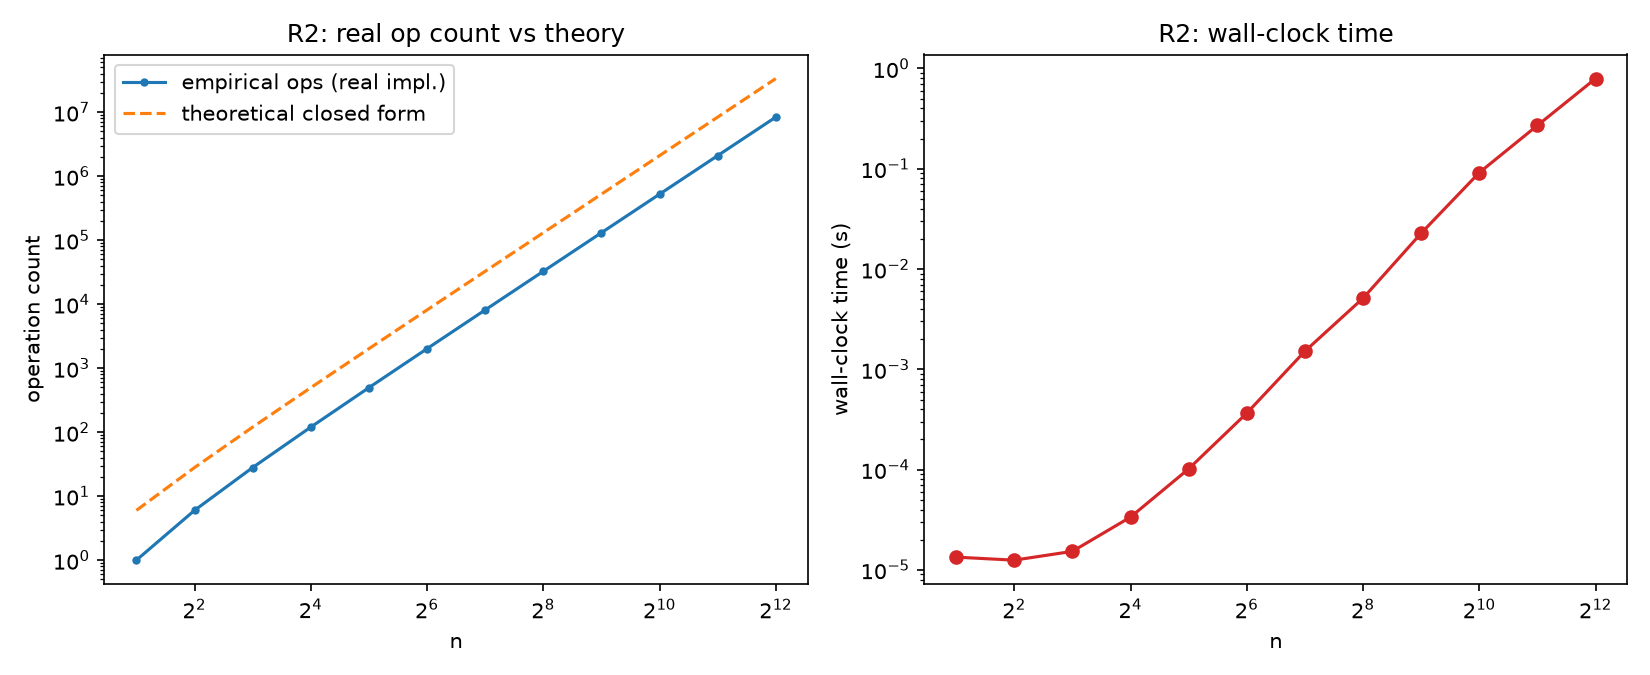
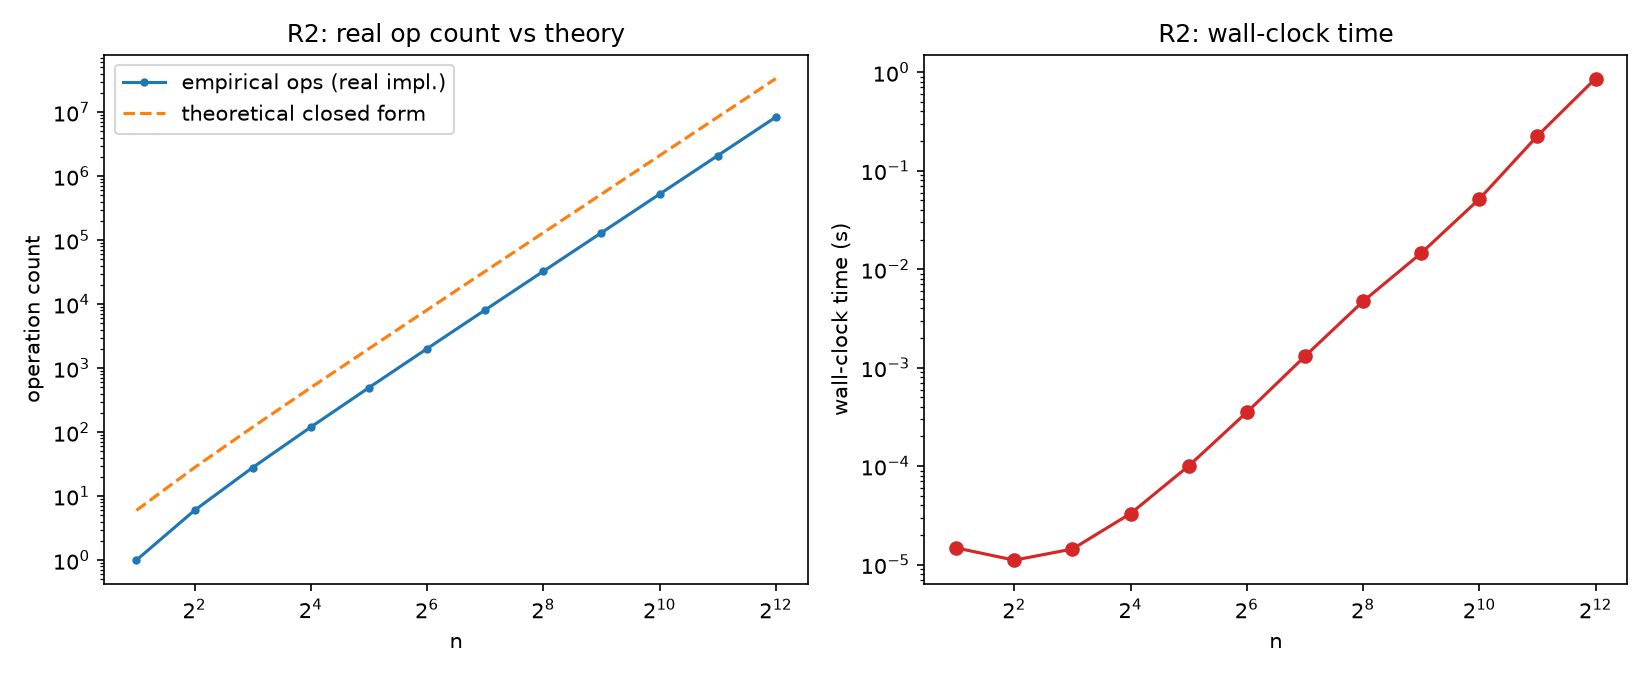
Add initial implementation of Lab 1 with task simulations and real algorithms
- Added README.md to describe the lab structure and execution.
- Implemented run_all.py to sequentially execute task simulations and real algorithms.
- Introduced task2_task3.py for abstract simulation of recurrences.
- Created task4.py for real implementations of algorithms.
- Generated output files including CSVs and PNGs for analysis.
- Added binary files for task4.py compiled output and updated result files.

diff --git a/lab1/run_all.py b/lab1/run_all.py
@@ -1,0 +1,9 @@
+
+import task2_task3
+import task4
+
+if __name__ == "__main__":
+    print("=== task2_task3.py (abstract simulation) ===")
+    task2_task3.run()
+    print("\n=== task4.py (real implementations) ===")
+    task4.run()

diff --git a/R236699C LAB 1.md b/R236699C LAB 1.md
@@ -1,14 +1,47 @@
+<style>
+  body { font-size: 12pt; line-height: 1.3; max-width: 7.4in; margin: 0 auto; }
+  p { margin: 0.5em 0; }
+  img { max-width: 3.9in; height: auto; display: block; margin: 0.25em auto; }
+  @page { margin: 0.55in; }
+  table { font-size: 10.5pt; }
+  h1, h2, h3 { margin-top: 0.7em; margin-bottom: 0.35em; }
+</style>
+
+<div style="text-align:center; margin-bottom: 2em;">
+
+![](assets/uz_logo.png){width=2.2in}
+
+**FACULTY OF COMPUTER ENGINEERING, INFORMATICS AND COMMUNICATIONS**
+
+**DEPARTMENT OF COMPUTER SCIENCE**
+
+**PROGRAM: HCS**
+
+**MODULE: DESIGN AND ANALYSIS OF ALGORITHMS**
+
+**NAME OF STUDENT: NIGEL TAVAGUTA**
+
+**REG NO.: R236699C**
+
+**SUPERVISOR: Ms MHLANGA**
+
+**LAB 1**
+
+</div>
+
+<div style="page-break-after: always;"></div>
+
 # Lab 1: Empirical Validation of the Master Theorem and Recurrence Solving
 
 ## Abstract
 
-This report solves four divide-and-conquer recurrences analytically (Master Theorem where applicable, recursion-tree/substitution otherwise), proves each closed form by induction, and then tests those closed forms against two kinds of empirical measurement: an abstract recursive simulator that counts operations purely from the recurrence's own formula, and real algorithm implementations (merge sort, a deliberately brute-force combine step, pre-Karatsuba multiplication, and a recursive binary search) with no memoization. The abstract simulation matches theory exactly everywhere, by construction, so it serves mainly as a correctness check on the proofs; the real implementations deviate from theory in three distinct, explainable ways — a shrinking lower-order term (merge sort), a flat constant-factor offset caused by a mismatch between the recurrence's $f(n)$ and what the real combine step actually costs (the two $\Theta(n^2)$ recurrences), and, in one case, a genuine implementation bug that at first looked like a legitimate deviation finding and had to be distinguished from one. Repeated wall-clock trials show operation counts are perfectly reproducible while timing is not, which motivates the final synthesis: a modified recurrence combining an uneven 1:3 split with a cache-miss penalty, solved rigorously via a sandwich argument to be $\Theta(n\log n)$ regardless of where the cache threshold falls, with the practical constant left as an approximation.
+This report solves four divide-and-conquer recurrences using the Master Theorem, the recursion-tree method, and substitution, and proves each result by induction. It then tests these results two ways: an abstract simulator that counts operations directly from each recurrence's own formula, and real implementations (merge sort, a brute-force combine step, pre-Karatsuba multiplication, and a recursive binary search), each with no memoization. The abstract simulator always matches theory exactly, so it mainly checks that the proofs and the simulation agree. The real implementations deviate from theory for three reasons: a lower-order term that matters less as $n$ grows, a constant-factor mismatch between a recurrence's $f(n)$ and what its combine step actually costs, and, in one case, a bug rather than a real effect. Repeated timing runs also show that operation counts are reproducible but wall-clock time is not. These findings lead to a final recurrence that combines an uneven split with a cache-miss penalty, which is proved to be $\Theta(n\log n)$ regardless of where the cache boundary falls.
 
 ## Task 1: Analytical Solutions
 
 ## 1. Introduction and Objectives
 
-Asymptotic analysis provides the mathematical foundation for evaluating algorithm efficiency. However, theoretical bounds often rely on simplifying assumptions, such as assuming unit-cost operations and ignoring hardware context. The objectives of this lab are:
+Asymptotic analysis is the standard way to evaluate algorithm efficiency, but it relies on simplifying assumptions such as unit-cost operations and no hardware context. The objectives of this lab are:
 
 1. Derive closed-form solutions and asymptotic bounds for four target divide-and-conquer recurrences.
 2. Formally prove all derived bounds using mathematical induction.
@@ -180,9 +213,9 @@ This agrees with the extended Case 2 from Section 2: here $n^{\log_2 1} = 1$ and
 
 Two separate programs were used, because they answer two different questions.
 
-**`task2_task3.py`** simulates each recurrence directly: a recursive function that makes $a$ calls on $n/b$ and adds $f(n)$ at the current level, with $T(1)=1$. Since $n$ only ever takes power-of-two values in this experiment, every call eventually resolves to one of about 20 distinct subproblem sizes, so the function is memoized by $n$. Without this, Recurrence 3 ($a=4$) would need $4^{20}$ leaf calls at $n = 2^{20}$, which is not feasible. Because this simulation counts operations purely through the recurrence's own formula, its empirical count matches the theoretical closed form from Task 1 *exactly*, for every $n$ from $2^1$ to $2^{20}$ — this is expected and is really a correctness check on both the simulator and the Task 1 derivations, not a measurement of anything real.
+**`task2_task3.py`** simulates each recurrence directly: a recursive function that makes $a$ calls on $n/b$ and adds $f(n)$ at the current level, with $T(1)=1$. Since $n$ only takes power-of-two values here, every call reaches one of about 20 distinct sizes, so the function is memoized by $n$. Without this, Recurrence 3 ($a=4$) would need $4^{20}$ leaf calls at $n=2^{20}$, which is not feasible. Because this program counts operations directly from each recurrence's formula, its output matches the Task 1 closed forms exactly for every $n$ from $2^1$ to $2^{20}$. This confirms the simulator and the proofs agree; it is not a measurement of anything real.
 
-**`task4.py`** instruments actual algorithms whose recursive structure matches each recurrence, with no memoization:
+**`task4.py`** runs real algorithms with the same recursive structure as each recurrence, with no memoization:
 
 | Recurrence | Real implementation |
 |---|---|
@@ -191,60 +224,60 @@ Two separate programs were used, because they answer two different questions.
 | $T(n)=4T(n/2)+n$ | Pre-Karatsuba recursive multiplication: split two $n$-bit integers into high/low halves, 4 recursive half-size multiplications, $O(n)$ shift-and-add combine |
 | $T(n)=T(n/2)+\log n$ | Recursive binary search over the first $n$ elements of a side array, then recurse with $n$ halved |
 
-Because Recurrences 2 and 3 perform genuine polynomial-scale work rather than abstract counting, they cannot be run out to $n=2^{20}$ in Python in reasonable time; their ranges are capped at $n=2^{12}$ (R2) and 1024-bit operands (R3). This cap is itself a small data point for Task 4: it shows the practical cost of an $O(n^2)$ algorithm in a way a Big-O bound alone does not.
+Recurrences 2 and 3 do real polynomial-scale work, so they cannot reach $n=2^{20}$ in Python in reasonable time. Their ranges are capped at $n=2^{12}$ (R2) and 1024-bit operands (R3). This cap is itself useful: it shows the real cost of an $O(n^2)$ algorithm in a way a Big-O bound alone does not.
 
-An earlier version of the R4 implementation always binary-searched the *full* side array regardless of the current recursion level, which silently simulates $T(n)=T(n/2)+\log N$ for a fixed $N$ rather than the intended $T(n)=T(n/2)+\log n$ — the bound passed to the binary search has to shrink along with $n$. That version also rebuilt the main array at every level via slicing (`arr[:n//2]`), which copies $O(n)$ elements per level and makes the wall-clock time measure array-copying cost rather than search cost. Both are fixed in the version described above (the bound passed to the search shrinks with $n$, and no array is copied at all — only an index is halved).
+An earlier version of R4 always searched the *full* side array, not just the first $n$ elements, so it actually simulated $T(n)=T(n/2)+\log N$ for a fixed $N$. It also rebuilt the main array at every level by slicing (`arr[:n//2]`), which copies $O(n)$ elements per level, so its timing measured copying cost rather than search cost. Both are fixed: the search bound now shrinks with $n$, and no array is copied at all.
 
 ### Results
 
-Plots are generated in `output/`: `recurrence_{1..4}.png` (abstract simulation vs. theory — these overlap exactly, by construction), `g_ratio_{1..4}.png` (empirical count divided by the *leading term only*, $g(n)$, with lower-order parts dropped), and `real_r{1..4}.png` (real implementation vs. theory, plus wall-clock time). The raw numbers are in `recurrence_counts.csv` and `real_implementations.csv`.
+Plots are in `output/`: `recurrence_{1..4}.png` (simulator vs. theory, which overlap exactly by construction), `g_ratio_{1..4}.png` (empirical count divided by the *leading term only*, $g(n)$), and `real_r{1..4}.png` (real implementation vs. theory, plus timing). Raw numbers are in `recurrence_counts.csv` and `real_implementations.csv`.
 
-The $g(n)$-ratio plots are the ones that actually carry information (the exact-theory ratio is trivially $1.0$ everywhere by construction, see Methodology above):
+The $g(n)$-ratio plots carry the real information, since the exact-theory ratio is always $1.0$ by construction:
 
 ![Recurrence 1: empirical count over leading term n log n](lab1/output/g_ratio_1.png)
 ![Recurrence 2: empirical count over leading term n^2](lab1/output/g_ratio_2.png)
 ![Recurrence 3: empirical count over leading term n^2](lab1/output/g_ratio_3.png)
 ![Recurrence 4: empirical count over leading term log^2 n](lab1/output/g_ratio_4.png)
 
-In each case $T(n)/g(n)$ converges to a constant rather than staying at an arbitrary value or drifting — this is the concrete content of the $\Theta(g(n))$ claim. Exact values at three representative points (computed directly from the Task 1 closed forms, since the abstract simulation matches them exactly):
+In each case $T(n)/g(n)$ settles to a constant instead of drifting - this is the concrete content of the $\Theta(g(n))$ claim. Exact values at three points (from the Task 1 closed forms):
 
 | $n$ | R1: $T/n\log n$ | R2, R3: $T/n^2$ | R4: $T/\log^2 n$ |
 |---|---|---|---|
 | $4$ | $1.500$ | $1.750$ | $1.000$ |
-| $2^{10}=1024$ | $1.100$ | $1.998$ | $0.560$ |
+| $2^{10}=1024$ | $1.100$ | $1.999$ | $0.560$ |
 | $2^{20}$ | $1.050$ | $2.000$ | $0.528$ |
 
-R1 converges to $1$, R2 and R3 converge to $2$, and R4 converges to $1/2$ — each limit is exactly what algebraic simplification of the closed form predicts as $n\to\infty$ (e.g. for R1, $\frac{nk+n}{nk}=1+\frac1k\to1$; for R2/R3, $\frac{2n^2-n}{n^2}=2-\frac1n\to2$; for R4, $\frac{1+k(k+1)/2}{k^2}\to\frac12$).
+R1 converges to $1$, R2 and R3 converge to $2$, and R4 converges to $1/2$, matching what each closed form's algebra predicts as $n\to\infty$ (e.g. for R1, $\frac{nk+n}{nk}=1+\frac1k\to1$; for R2/R3, $\frac{2n^2-n}{n^2}=2-\frac1n\to2$; for R4, $\frac{1+k(k+1)/2}{k^2}\to\frac12$).
 
 ---
 
 ## Task 4: Critical Analysis
 
-The abstract simulation matches theory exactly for every recurrence and every $n$, because it was built to compute the recurrence's own formula — there is no mechanism by which it *could* deviate. Genuine deviation only appears once a real algorithm is run on real data, which is exactly what `task4.py` is for. Four distinct deviation patterns showed up:
+The simulator matches theory exactly for every recurrence, since it computes each formula directly - there is no way for it to deviate. Real deviation only shows up once a real algorithm runs on real data, which is what `task4.py` is for. Four patterns showed up.
 
-**1. Lower-order terms dominate at small $n$ (Recurrence 1).** Merge sort's leaves cost nothing (the recursion bottoms out and returns immediately — no comparison is made), whereas the recurrence's own base case charges $T(1)=1$. That single difference is exactly the gap: writing $k=\log_2 n$, the empirical count works out to exactly $n\cdot k$, compared to the theoretical $n\cdot k+n$, so the ratio is exactly
+**1. Lower-order terms matter less as $n$ grows (Recurrence 1).** Merge sort's base case costs nothing, but the recurrence charges $T(1)=1$. Writing $k=\log_2 n$, the empirical count is exactly $n\cdot k$, against the theoretical $n\cdot k+n$, so the ratio is exactly
 
 $$\frac{nk}{nk+n} = \frac{k}{k+1},$$
 
-which is $1/2$ at $n=2$ ($k=1$) and climbs to $20/21\approx0.952$ at $n=2^{20}$ ($k=20$) — matching the measured values precisely. This is the "lower-order terms" source of deviation named in the brief in its cleanest possible form: the asymptotic bound ($\Theta(n\log n)$) is correct, the gap comes from a single additive term whose relative weight shrinks as $n$ grows, and the exact rate at which it shrinks can itself be written down in closed form.
+which is $1/2$ at $n=2$ and rises to $20/21\approx0.952$ at $n=2^{20}$, matching the measured values. The asymptotic bound ($\Theta(n\log n)$) is correct; the gap is a single additive term that matters less as $n$ grows.
 
-**2. Constant-factor mismatch between the recurrence's $f(n)$ and the real combine cost (Recurrences 2 and 3).** For Recurrence 2, the brute-force combine step compares every element of the left half ($n/2$ elements) against every element of the right half ($n/2$ elements), which costs exactly $(n/2)^2 = n^2/4$ comparisons — not $n^2$. Carried through the recursion, the empirical/theory ratio converges to a flat $0.25$ rather than $1.0$: both are $\Theta(n^2)$, so the asymptotic *order* is unaffected, but the recurrence's abstract $f(n)=n^2$ overstated the real constant by exactly 4×. The same story applies to Recurrence 3: the real shift-and-add combine touches `half` $= n/2$ bits, not $n$, and the ratio converges to $0.75$. This is the clearest illustration that "$\Theta(n^2)$" is a claim about growth rate, not about the actual number painted on a stopwatch — two implementations can both be $\Theta(n^2)$ and differ by a constant factor that matters enormously in practice.
+**2. Constant-factor mismatch (Recurrences 2 and 3).** Recurrence 2's brute-force combine compares every left-half element ($n/2$ of them) against every right-half element ($n/2$ of them), costing $(n/2)^2=n^2/4$ comparisons, not $n^2$. The ratio converges to $0.25$, not $1.0$. Both are $\Theta(n^2)$, but the recurrence's $f(n)=n^2$ overstates the real constant by 4×. Recurrence 3's combine similarly touches `half` $=n/2$ bits, not $n$, and converges to $0.75$. $\Theta(n^2)$ is a claim about growth rate, not the number on a stopwatch: two implementations can share a complexity class and still differ by a constant factor that matters in practice.
 
-**3. A bug can look exactly like a deviation finding if you're not careful (Recurrence 4).** An earlier version of the R4 implementation bugs out in a way worth recording rather than papering over: it always binary-searched the *full* side array, not the first $n$ elements of it, so it was silently simulating $T(n)=T(n/2)+\log N$ for a fixed constant $N$ instead of the intended $T(n)=T(n/2)+\log n$. That version's empirical/theory ratio rose from roughly $1.5$ at moderate $n$ (e.g. $n=64$) to about $1.83$ at $n=2^{20}$, and was still rising slowly rather than flat — but it was converging towards $2$, not diverging without bound: with the bug, each of the $k=\log_2 n$ recursion levels costs about $\log_2 n = k$ (not the intended, shrinking $\log_2(n/2^j)$), so the buggy total is about $k\cdot k=k^2$ against the correct closed form's $\approx k^2/2$, and $k^2/(k^2/2)=2$ is exactly the asymptote the ratio was approaching. This at first glance looks like a legitimate "implementation detail changes the constant" story. It is not — it is a mismatch between the code and the recurrence it claims to implement, not a property of the recurrence itself, and framing it as a hardware or constant-factor effect would have been wrong. Once fixed (the search bound shrinks with $n$, exactly as the recurrence requires), the ratio instead fluctuates around $0.9$ with no trend, which is what genuine implementation noise looks like for a recurrence this small (the dominant term is $k(k+1)/2 \approx k^2/2$, so absolute operation counts are only tens to hundreds, and ordinary randomness in where the binary search happens to find its target produces real sample-to-sample variation at that scale). The lesson generalizes beyond this one function: a ratio that keeps drifting in one direction as $n$ grows, rather than settling, is itself a signal worth checking the implementation for — not necessarily evidence of some exotic deviation source.
+**3. A bug can look like a finding (Recurrence 4).** An earlier version of R4 searched the *full* side array at every level, not just the first $n$ elements, so it actually simulated $T(n)=T(n/2)+\log N$ for a fixed $N$. Its ratio rose from about $1.5$ at moderate $n$ to $1.83$ at $n=2^{20}$, converging toward $2$: the buggy cost per level is about $k=\log_2 n$ instead of the intended, shrinking $\log_2(n/2^j)$, so the buggy total is about $k^2$ against the correct $\approx k^2/2$. This looked like a legitimate "implementation changes the constant" result. It was not - it was a mismatch between the code and the recurrence it was meant to implement. Once fixed, the ratio settles around $0.9$ with no trend, which is ordinary noise for a recurrence this small (the counts involved are only tens to hundreds). A ratio that keeps drifting with $n$ instead of settling is a reason to check the implementation first.
 
-**4. Overhead and run-to-run variance in wall-clock measurement.** Wall-clock times at the smallest $n$ tested (down to $n=2$) are a few microseconds across all four recurrences — too small and too close to Python's per-call overhead to draw a reliable shape (a "dip" was visible in one run of one recurrence but did not reproduce consistently across repeated runs, so it is not reported as a finding). At the large-$n$ end, repeating Recurrence 1's run three times with different random seeds gave a wall-clock growth factor from $n=2^{16}$ to $n=2^{20}$ of $21.9\times$, $27.3\times$, and $28.5\times$ — consistently somewhat above the $\approx20\times$ that $n\log n$ alone predicts over that range, but not a stable number across trials. This is itself a finding: *operation count* is perfectly reproducible (task2_task3.py's simulation and task4.py's counters are deterministic given a seed), but *wall-clock time* is not, because it also reflects things the recurrence model has no term for — CPython's memory allocator, garbage collection, and OS scheduling noise. Memory-hierarchy effects (the array no longer fitting in cache as $n$ grows past a few hundred thousand elements) are a plausible contributor to the consistent excess over the $20\times$ prediction, but this instrumentation cannot isolate that from allocator/GC overhead without separate profiling — the honest claim is "possibly cache effects, among other overheads we did not separately measure," not a confirmed attribution.
+**4. Overhead and run-to-run variance in timing.** Times at the smallest $n$ tested are a few microseconds across all four recurrences, too small to read reliably. At large $n$, repeating Recurrence 1's run three times gave a timing growth factor from $n=2^{16}$ to $n=2^{20}$ of $21.9\times$, $27.3\times$, and $28.5\times$ - consistently above the $\approx20\times$ that $n\log n$ predicts, but not a stable number across runs. Operation counts are perfectly reproducible; wall-clock time is not, because it also reflects CPython's memory allocator, garbage collection, and OS scheduling noise. Cache effects (the array no longer fitting in cache at large $n$) are a plausible contributor to the extra growth, but this cannot be confirmed without separate profiling.
 
 ---
 
-## Task 5: Synthesis — A Modified Recurrence for Uneven Splits and Memory Hierarchy
+## Task 5: Synthesis - A Modified Recurrence for Uneven Splits and Memory Hierarchy
 
 ### Motivation
 
-Real divide-and-conquer algorithms rarely split work perfectly in half, and real machines are not uniform-cost — operating on data that no longer fits in cache is generally believed to cost measurably more per element than operating on data that does. We did not isolate this effect directly: the wall-clock results in Task 4 (point 4 above) show Recurrence 1's measured time growing somewhat faster than $n\log n$ predicts at large $n$, consistently across three repeated trials, but the instrumentation available here cannot separate a cache-miss effect from CPython's allocator or garbage collector. Treat the recurrence below as modeling a plausible real-world effect we did not directly measure, motivated by — but not confirmed by — that observation, rather than as something the Task 4 data proves is happening.
+Real divide-and-conquer algorithms rarely split work exactly in half, and real machines are not uniform-cost: data that no longer fits in cache is generally slower to process per element. We did not measure this directly. The Task 4 timing data (point 4) shows Recurrence 1 growing somewhat faster than $n\log n$ predicts at large $n$, consistently across three runs, but this instrumentation cannot separate a cache effect from Python's allocator or garbage collector. The recurrence below models a plausible real effect, motivated by - but not confirmed by - that observation.
 
 ### The recurrence
 
-Consider a divide-and-conquer algorithm that splits its input unevenly — say a 1:3 ratio, which models a partitioning step that is not perfectly balanced (as happens, e.g., with a mediocre but non-adversarial pivot choice) — and that additionally pays a cache-miss penalty whenever the subproblem no longer fits in a cache of size $M$:
+Consider a divide-and-conquer algorithm that splits its input unevenly, say in a 1:3 ratio (modeling a partitioning step that is not perfectly balanced, as with a mediocre but non-adversarial pivot choice), and that also pays a cache-miss penalty once the subproblem no longer fits in a cache of size $M$:
 
 $$T(n) = T\!\left(\frac{n}{4}\right) + T\!\left(\frac{3n}{4}\right) + f(n), \qquad f(n) = \begin{cases} n & n \le M \\ c\,n & n > M \end{cases}, \quad c > 1$$
 
@@ -252,36 +285,36 @@ $$T(n) = T\!\left(\frac{n}{4}\right) + T\!\left(\frac{3n}{4}\right) + f(n), \qqu
 
 $$T(n) = \Theta\!\left(n^p\left(1 + \int_1^n \frac{f(u)}{u^{p+1}}\,du\right)\right) = \Theta\!\left(n\left(1+\int_1^n \frac{u}{u^2}\,du\right)\right) = \Theta(n(1+\ln n)) = \Theta(n\log n).$$
 
-So an uneven 1:3 split, on its own, does not change the asymptotic order compared to the balanced case $T(n)=2T(n/2)+n$ — both are $\Theta(n\log n)$ — it only changes the constant hidden inside the $\Theta$. This matches the general principle that the Master Theorem's "balanced" assumption is not load-bearing for Case 2-type recurrences as long as the split ratio is fixed and bounded away from 0 or 1; only a split that degenerates as $n$ grows (e.g. $T(n-1)+n$) changes the order.
+So an uneven 1:3 split alone does not change the asymptotic order compared to the balanced case $T(n)=2T(n/2)+n$: both are $\Theta(n\log n)$, and the split only changes the constant inside the $\Theta$. The Master Theorem's "balanced" assumption is not essential for Case 2-type recurrences as long as the split ratio is fixed and bounded away from 0 or 1; only a split that degenerates as $n$ grows (e.g. $T(n-1)+n$) changes the order.
 
-**Adding the cache penalty — the rigorous $\Theta$ claim.** Rather than argue level-by-level (uneven splits make "all nodes at a level are cold together" false in general, since different branches reach size $M$ at different depths), a sandwich argument gives the asymptotic order cleanly. By construction $f(n)$ satisfies $n \le f(n) \le c\cdot n$ for every $n$ (it equals $n$ when $n\le M$ and $c\,n$ when $n>M$, and $c>1$). Define two auxiliary, memory-oblivious recurrences using the *same* branching structure:
+**Adding the cache penalty - the rigorous $\Theta$ claim.** An uneven tree does not reach the cache boundary at the same depth in every branch, so arguing level-by-level is not exact. A sandwich argument settles the order directly instead. By construction $f(n)$ satisfies $n \le f(n) \le c\cdot n$ for every $n$ (it equals $n$ when $n\le M$ and $c\,n$ when $n>M$, and $c>1$). Define two auxiliary, memory-oblivious recurrences with the *same* branching structure:
 
 $$T_{\text{lo}}(n) = T_{\text{lo}}\!\left(\tfrac n4\right) + T_{\text{lo}}\!\left(\tfrac{3n}4\right) + n, \qquad T_{\text{hi}}(n) = T_{\text{hi}}\!\left(\tfrac n4\right) + T_{\text{hi}}\!\left(\tfrac{3n}4\right) + c\,n.$$
 
-Both solve to $\Theta(n\log n)$ by the Akra–Bazzi computation above ($T_{\text{hi}}$ is just $c$ times the $T_{\text{lo}}$ recursion, and scaling $f(n)$ by a positive constant scales $T(n)$ by the same constant, leaving the $\Theta$-class unchanged). Since $f(n)$ is sandwiched between the two auxiliary cost functions at every level of recursion, and the recursive structure ($a_i$, $b_i$) is identical in all three recurrences, standard recurrence monotonicity gives $T_{\text{lo}}(n) \le T(n) \le T_{\text{hi}}(n)$ for all $n$. Both bounds are $\Theta(n\log n)$, so
+Both solve to $\Theta(n\log n)$ by the same Akra-Bazzi computation ($T_{\text{hi}}$ is just $c$ times the $T_{\text{lo}}$ recursion, and scaling $f(n)$ by a positive constant scales $T(n)$ the same way). Since $f(n)$ sits between the two auxiliary costs at every level, and the branching structure is identical in all three recurrences, recurrence monotonicity gives $T_{\text{lo}}(n) \le T(n) \le T_{\text{hi}}(n)$ for all $n$. Both bounds are $\Theta(n\log n)$, so
 
 $$T(n) = \Theta(n\log n)$$
 
-follows rigorously, regardless of exactly where the cache threshold $M$ falls or how the cold/warm levels interleave in an uneven tree. The level-by-level cold/warm accounting below is kept only as an approximation for the *constant*, not for the $\Theta$-class itself, which the sandwich argument already settles exactly:
+follows regardless of where $M$ falls or how the cold and warm levels interleave. The level-by-level accounting below is kept only as an approximation for the *constant*, since the sandwich argument above already settles the $\Theta$-class:
 
 $$T(n) \approx \underbrace{c\cdot n\cdot \log_{4/3}\!\left(\frac{n}{M}\right)}_{\text{cold levels (approx.)}} + \underbrace{1\cdot n \cdot \log_{4/3} M}_{\text{warm levels (approx.)}} = n\Big[c\log_{4/3}n - (c-1)\log_{4/3}M\Big]$$
 
-Two consequences worth stating explicitly, since they are the actual point of this exercise:
+Two consequences matter here:
 
-1. **The asymptotic class is unchanged** ($\Theta(n\log n)$ either way, proved rigorously above) — this is exactly the limitation of asymptotic analysis the lab is probing. Two algorithms in the same complexity class can behave very differently once $n$ crosses the cache threshold $M$, and no amount of Big-O analysis distinguishes them.
-2. **The approximate constant grows with $c$ and with how many levels are "cold"**, which (per the approximation above) predicts a visible "knee" in a plot of time against $n$: roughly linearithmic growth for $n \le M$, then linearithmic growth with a larger effective constant for $n > M$. We have not measured this knee directly — it is a prediction of the model, offered as a plausible explanation consistent with the somewhat-faster-than-$n\log n$ wall-clock growth observed for Recurrence 1 in Task 4, not a confirmed observation. Confirming it would require a dedicated experiment (e.g. varying array size across a known cache boundary while holding the algorithm fixed) which was out of scope here.
+1. **The asymptotic class is unchanged** ($\Theta(n\log n)$ either way) - this is the limitation of asymptotic analysis the lab is probing. Two algorithms in the same complexity class can behave very differently once $n$ crosses the cache threshold $M$, and no Big-O analysis distinguishes them.
+2. **The approximate constant grows with $c$ and with how many levels are cold**, predicting a visible "knee" in a plot of time against $n$: linearithmic growth for $n \le M$, then linearithmic growth with a larger constant for $n > M$. We have not measured this knee directly; it is a model prediction consistent with the faster-than-$n\log n$ timing growth seen for Recurrence 1 in Task 4, not a confirmed observation.
 
 ---
 
 ## Conclusion
 
-All four target recurrences were solved in closed form and proved by induction: $\Theta(n\log n)$ for Recurrence 1, $\Theta(n^2)$ for Recurrences 2 and 3 (reaching the same order via different Master Theorem cases, and coincidentally the same closed form), and $\Theta(\log^2 n)$ for Recurrence 4, which falls outside the Master Theorem's three cases entirely and required the recursion-tree method instead.
+All four recurrences were solved in closed form and proved by induction: $\Theta(n\log n)$ for Recurrence 1, $\Theta(n^2)$ for Recurrences 2 and 3 (via different Master Theorem cases, sharing the same closed form by coincidence), and $\Theta(\log^2 n)$ for Recurrence 4, which falls outside the Master Theorem's three cases and needed the recursion-tree method instead.
 
-The empirical work makes a point that is easy to state but easy to get wrong in practice: *matching the recurrence exactly* and *matching reality* are different achievements. The abstract simulator in `task2_task3.py` does the former by design — it counts operations straight out of the recurrence's own formula, memoized so the sweep to $n=2^{20}$ is feasible, and so it was never going to show deviation from Task 1's closed forms, only confirm them. The real implementations in `task4.py` do the latter, and three distinct, genuine deviation mechanisms showed up: a lower-order term that shrinks in relative weight as $n$ grows (Recurrence 1, with an exact $k/(k+1)$ closed form for the ratio); a flat constant-factor gap between the recurrence's abstract $f(n)$ and what a real combine step actually costs (Recurrences 2 and 3, converging to $0.25$ and $0.75$ respectively); and wall-clock timing that is not perfectly reproducible run to run, unlike operation counts, because it also reflects interpreter overhead, memory allocation, and (plausibly, though not confirmed here) cache behavior that the recurrence model has no term for.
+The empirical work shows that matching a recurrence exactly and matching reality are different things. The abstract simulator matches Task 1's closed forms exactly, by design, since it computes each formula directly - it was never going to show deviation, only confirm the proofs. The real implementations deviate for three genuine reasons: a lower-order term that matters less as $n$ grows (Recurrence 1, with an exact $k/(k+1)$ ratio); a constant-factor gap between a recurrence's abstract $f(n)$ and what its combine step actually costs (Recurrences 2 and 3, converging to $0.25$ and $0.75$); and wall-clock timing that is not reproducible the way operation counts are, since it also reflects interpreter overhead, memory allocation, and possibly cache behavior.
 
-A fourth, less comfortable lesson came from Recurrence 4: an implementation bug (searching a fixed-size array instead of one that shrinks with the recursion) produced a ratio that drifted steadily with $n$, which superficially resembled a legitimate "implementation changes the constant" finding. Distinguishing a real deviation from a wrong implementation required deriving what the buggy code was *actually* computing ($T(n)=T(n/2)+\log N$ for fixed $N$, not the intended recurrence) rather than accepting the empirical curve at face value. This is itself a finding worth keeping: a monotonically drifting empirical/theory ratio, with no sign of leveling off, is a reason to suspect the implementation before concluding something new about the recurrence.
+A fourth case, in Recurrence 4, turned out to be an implementation bug rather than a real deviation: searching a fixed-size array instead of one that shrinks with the recursion produced a ratio that drifted steadily with $n$, which at first looked like a legitimate finding. Distinguishing the two required working out what the buggy code was *actually* computing, rather than accepting the curve at face value. The lesson: a ratio that keeps drifting instead of settling is a reason to check the implementation first.
 
-The synthesis recurrence in Task 5 ties these threads together deliberately rather than decoratively. The uneven 1:3 split is solved with the Akra–Bazzi method precisely because the Master Theorem's balanced-subproblem assumption does not hold for it, and the added cache-miss penalty is solved with a sandwich argument rather than a level-by-level approximation, because an uneven tree makes "every node at a level is cold together" false in general. Both techniques were necessary extensions of what Task 1 covered, applied to a scenario the Task 4 data motivated (the observation, not fully confirmed, that real timing grows somewhat faster than the operation count alone predicts at large $n$). The headline result — that the asymptotic class is unchanged ($\Theta(n\log n)$ either way) while the practical constant can still differ enormously depending on hardware boundaries the recurrence has no visibility into — is the central limitation of asymptotic analysis this lab set out to probe, and the empirical sections give it a concrete, reproducible example rather than leaving it as an abstract caveat.
+The Task 5 synthesis combines an uneven split with a cache-miss penalty, solved with the Akra-Bazzi method and a sandwich argument rather than the Master Theorem, since neither the unequal split nor the uneven cache boundary fits its assumptions. The result - $\Theta(n\log n)$ either way, with the practical constant depending on hardware boundaries the recurrence cannot see - is the central limitation of asymptotic analysis this lab set out to probe.
 
 ---
 
@@ -289,6 +322,6 @@ The synthesis recurrence in Task 5 ties these threads together deliberately rath
 
 1. Cormen, T. H., Leiserson, C. E., Rivest, R. L., and Stein, C. *Introduction to Algorithms*, 4th edition. MIT Press, 2022. (Master Theorem, recursion-tree method, substitution method, merge sort, Karatsuba-style divide-and-conquer multiplication.)
 2. Akra, M. and Bazzi, L. "On the solution of linear recurrence equations." *Computational Optimization and Applications*, 10(2):195–210, 1998. (Generalized Master Theorem used in Task 5 for the uneven-split recurrence.)
-3. Python Software Foundation. `time` — Time access and conversions (`time.perf_counter`), and `random` module documentation. https://docs.python.org/3/library/ (Used for wall-clock timing and reproducible random sampling in `task4.py`.)
+3. Python Software Foundation. `time` - Time access and conversions (`time.perf_counter`), and `random` module documentation. https://docs.python.org/3/library/ (Used for wall-clock timing and reproducible random sampling in `task4.py`.)
 4. Hunter, J. D. "Matplotlib: A 2D Graphics Environment." *Computing in Science & Engineering*, 9(3):90–95, 2007. (Plotting library used throughout.)
 

diff --git a/lab1/README.md b/lab1/README.md
@@ -1,0 +1,33 @@
+# Lab 1 - Empirical Validation of the Master Theorem and Recurrence Solving
+
+## Requirements
+
+- Python 3 (tested with Python 3.12.0)
+- matplotlib (tested with 3.11.2): `pip install matplotlib`
+
+## Run
+
+Everything runs with one command:
+
+```
+python run_all.py
+```
+
+Takes about 40 seconds. All CSVs and plots are written to `output/` (created automatically).
+Operation counts are reproducible (`task4.py` seeds the random generator with 42).
+Wall-clock times will differ from run to run and between machines.
+
+## Files
+
+| File | What it does | Output |
+|---|---|---|
+| `task2_task3.py` | Simulates the four recurrences directly (a recursive function that makes `a` calls on `n/b` and adds `f(n)`), for n = 2^1 to 2^20. Memoized by `n`, since only about 20 distinct sizes occur. Matches the Task 1 closed forms exactly, so it checks the proofs rather than measuring anything real. | `recurrence_counts.csv`, `recurrence_{1..4}.png`, `g_ratio_{1..4}.png` |
+| `task4.py` | Real algorithms with no memoization: merge sort (R1), a brute-force O(n^2) combine step (R2), pre-Karatsuba recursive multiplication (R3), recursive binary search (R4). Shows where real results deviate from theory. R2 is capped at n = 2^12 and R3 at 1024-bit operands, because they do genuine quadratic-scale work. | `real_implementations.csv`, `real_r{1..4}.png` |
+| `run_all.py` | Calls both scripts' `run()` functions in order. | |
+
+## Report
+
+The report is `../R236699C LAB 1.md` (PDF: `../R236699C LAB 1.pdf`), one level up from this
+folder. It covers the analytical solutions and induction proofs (Task 1), the methodology
+and plots (Tasks 2 and 3), the critical analysis (Task 4), and the modified recurrence
+(Task 5).
